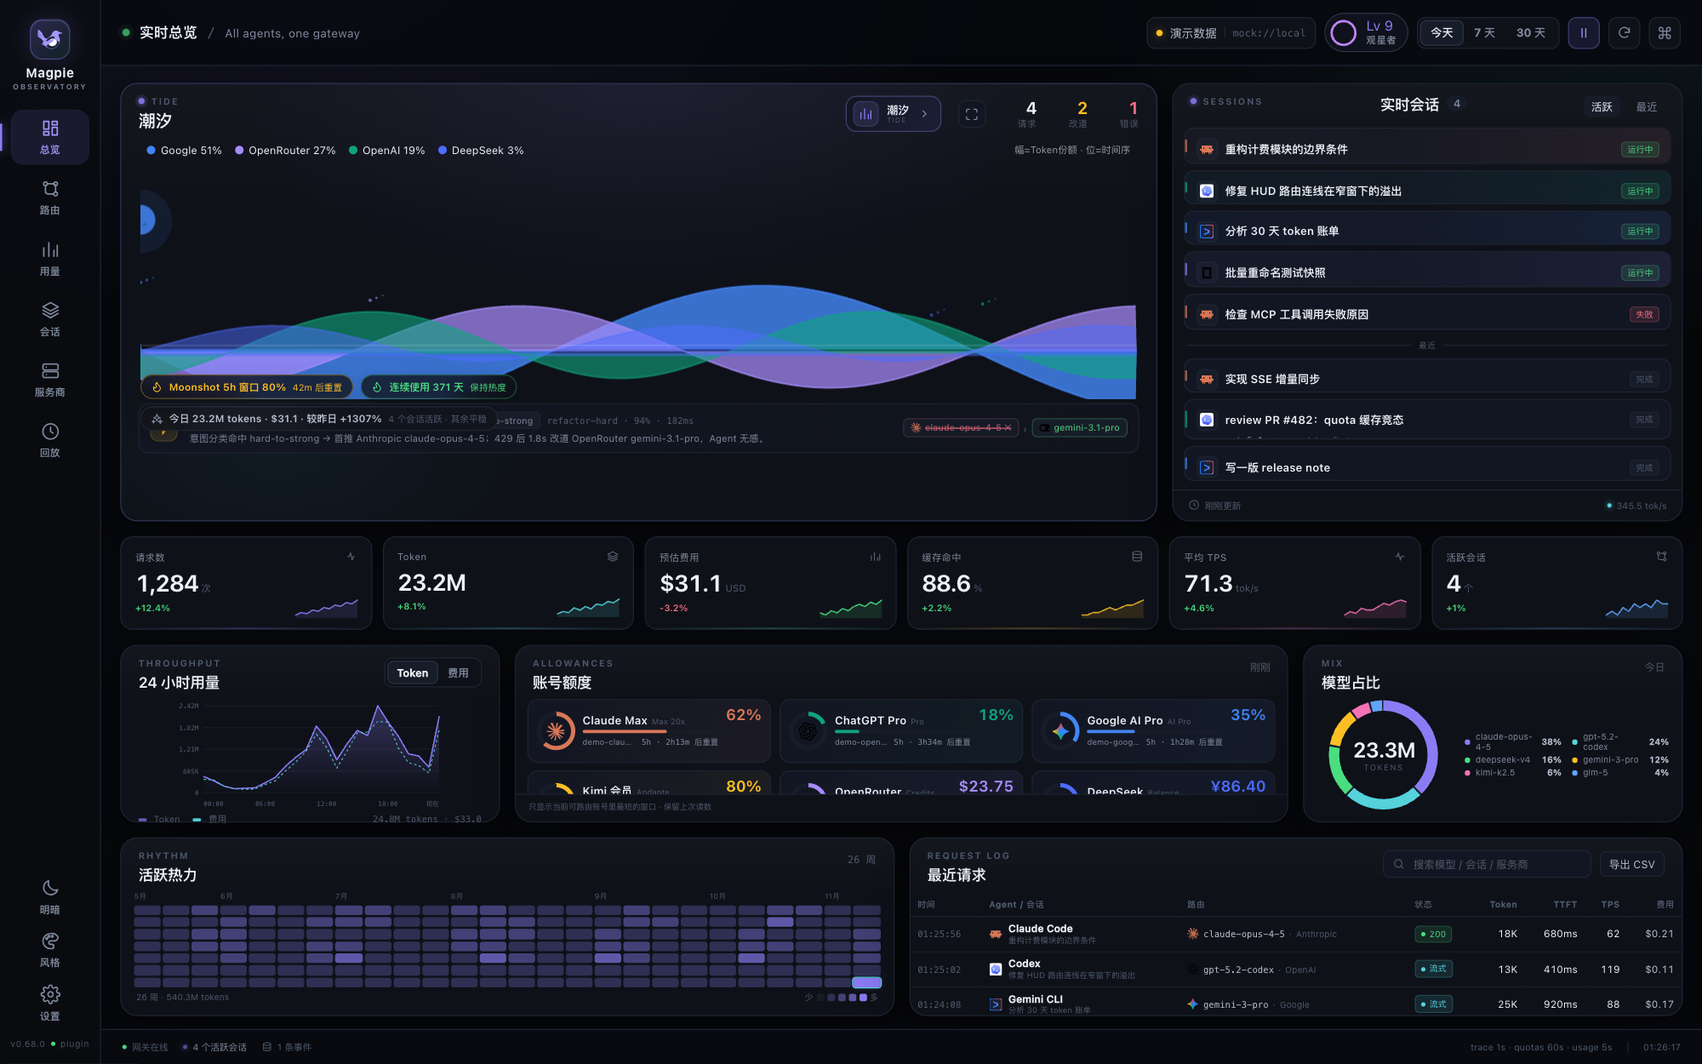
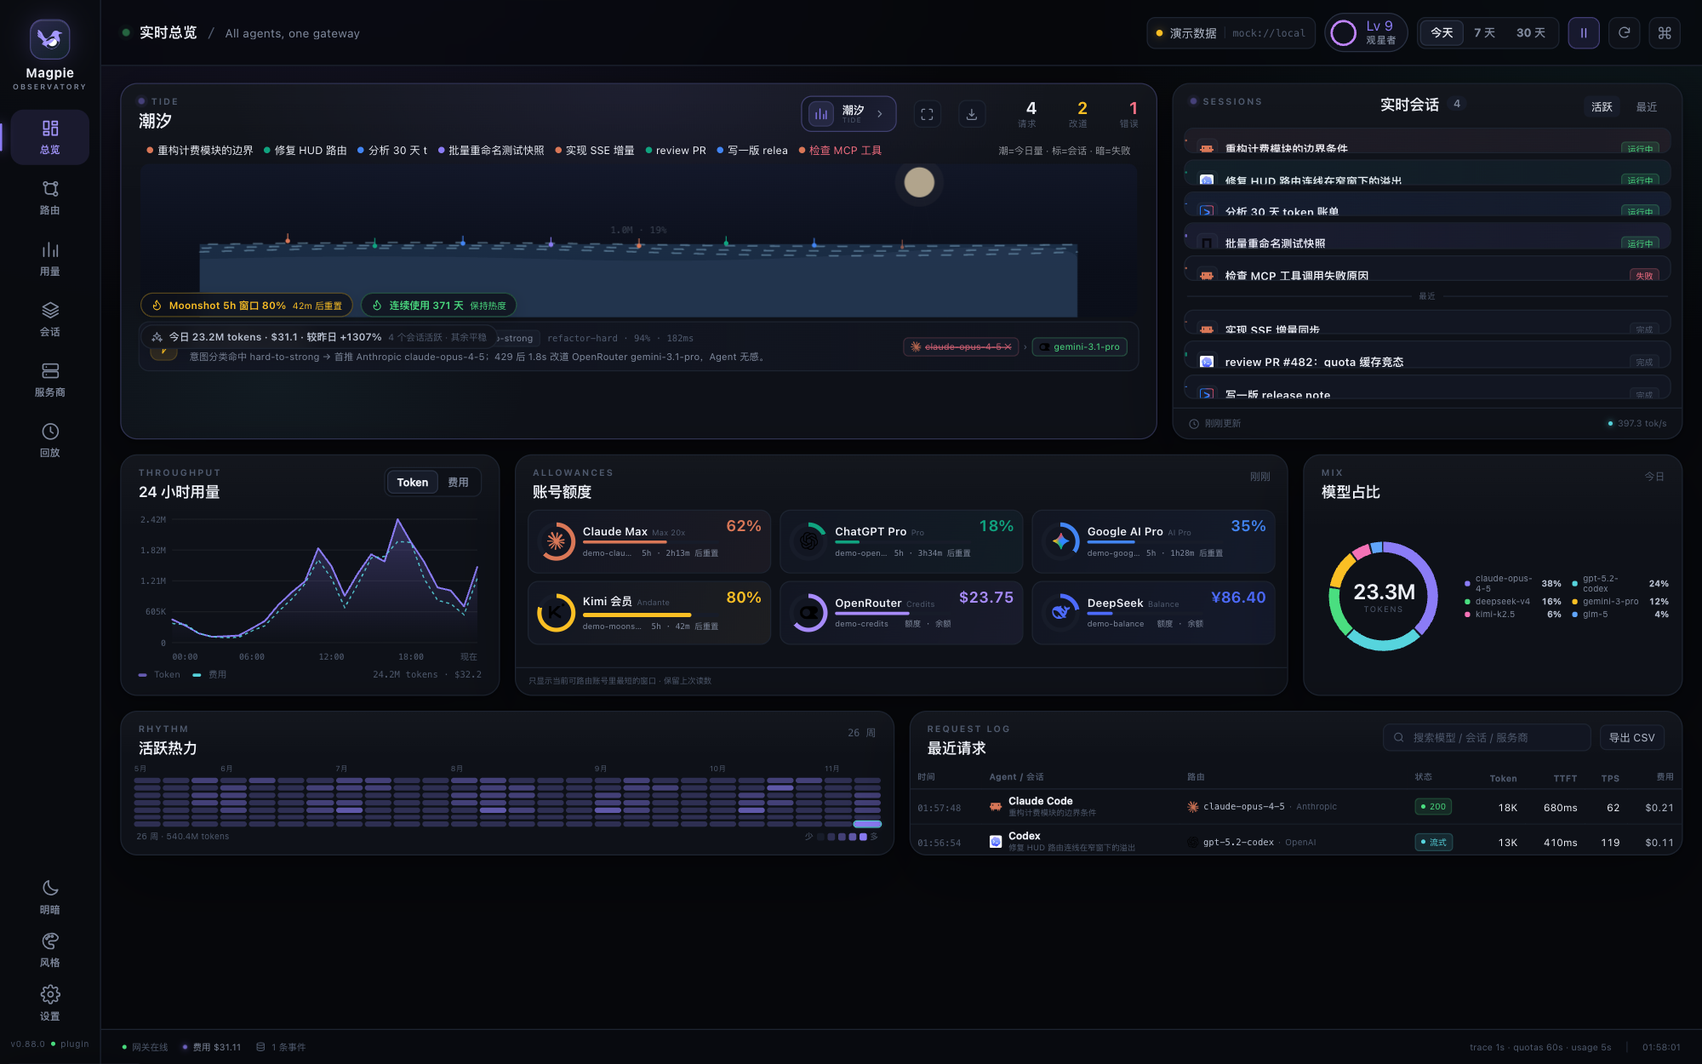
feat: 50th view tide — quota as a rising sea (v0.88.0)
- tide.js/css: today's tokens as a rising tide — level = soft-cap share,
  buoys = sessions, dim = failed; moon + waves
- READMEx2 + docs/mode-tide.png + 50 VIEWS

diff --git a/public/assets/views/tide.js b/public/assets/views/tide.js
@@ -1,84 +1,86 @@
-/* ----------------------------------------------------------------- tide
- * Tide view — provider throughput as rolling waves:
- *   each provider is a sine-wave band; amplitude = its token share,
- *   phase drifts over time. Waves lap onto a shore line; a moon pulls
- *   the biggest wave's crest.
+/* -------------------------------------------------------------------- tide
+ * Tide view — the day's quota as a rising tide against a coastline:
+ *   the sea level is today's total tokens as a share of a soft cap,
+ *   waves roll in (session rhythm), a moon pulls them. Failed requests
+ *   darken the water.
  * ----------------------------------------------------------------- */
 
 (() => {
   const VIEW = "tide";
   const esc = x => String(x ?? "").replace(/[<>&"]/g, c => ({ "<": "&lt;", ">": "&gt;", "&": "&amp;", '"': "&quot;" }[c]));
 
-  let seed = 17;
+  let seed = 97;
   const rnd = () => { seed = (seed * 16807) % 2147483647; return (seed - 1) / 2147483646; };
 
-  function wavePath(W, base, amp, freq, phase, dir) {
-    let d = `M0,${base}`;
-    for (let x = 0; x <= W; x += 8) {
-      const y = base + Math.sin((x / W) * freq * Math.PI * 2 + phase) * amp * dir;
-      d += ` L${x},${y.toFixed(1)}`;
-    }
-    return d;
-  }
-
   function render(host, ctx) {
-    const series = (ctx.data.series || []).slice(-24);
-    const sessions = ctx.data.sessions || [];
-    const meta = ctx.providerMeta || {}; const metaOf = k => (typeof meta === "function" ? meta(k) : (meta[k] || {}));
+    const sessions = (ctx.data.sessions || []).concat(ctx.data.recent || []).slice(0, 14);
+    const ameta = ctx.agentMeta || {};
+    const ametaOf = k => (typeof ameta === "function" ? ameta(k) : (ameta[k] || {}));
     const W = host.clientWidth || 800, H = host.clientHeight || 300;
-    const shore = H - 50;
+    const cx = W / 2, shore = H * 0.62;
 
-    // provider → tokens share from sessions
-    const provTok = {};
-    sessions.forEach(s => { provTok[s.provider] = (provTok[s.provider] || 0) + (s.tokens || 0); });
-    const total = Object.values(provTok).reduce((a, b) => a + b, 0) || 1;
-    const provs = Object.entries(provTok).sort((a, b) => b[1] - a[1]).slice(0, 6);
+    seed = 97;
+    const today = (ctx.data.today || []);
+    const totTok = today.reduce((s, t) => s + (t.tokens || 0), 0) || sessions.reduce((s, x) => s + (x.tokens || 0), 0) || 1;
+    const softCap = 5_000_000;
+    const level = Math.min(0.95, totTok / softCap);
+    const seaY = shore - level * (H - shore + 20);
+    const failed = sessions.filter(s => s.status === "error" || s.status === "failed").length;
+    const dim = failed > 0;
 
-    seed = 17;
-    let waves = "", crestX = 0, crestY = 0, crestCol = "#8b7cf6", crestShare = 0;
-    provs.forEach(([prov, tok], i) => {
-      const share = tok / total;
-      const col = metaOf(prov).color || "#8b7cf6";
-      const amp = 14 + share * 90;
-      const freq = 1.2 + i * 0.4;
-      const phase = i * 0.9;
-      const base = shore - i * 4;
-      // fill under wave
-      const path = wavePath(W, base, amp, freq, phase, 1);
-      const fill = `${path} L${W},${shore} L0,${shore} Z`;
-      waves += `<path class="tide-fill" d="${fill}" fill="${col}" opacity="${0.12 + share * 0.18}" style="animation-delay:${i * 90}ms"/>`;
-      waves += `<path class="tide-line" d="${path}" fill="none" stroke="${col}" stroke-width="1.6" opacity=".85" style="animation-delay:${i * 90}ms"/>`;
-      // foam dots on crest
-      const crestI = Math.floor(rnd() * W / 8) * 8;
-      const crestXl = crestI;
-      const crestYl = base - amp * 0.95;
-      for (let f = 0; f < 3; f++) {
-        waves += `<circle class="tide-foam" cx="${crestXl + f * 6}" cy="${crestYl - f * 3}" r="${1.5 - f * 0.4}" fill="${col}" opacity=".7" style="animation-delay:${i * 90 + f * 120}ms"/>`;
-      }
-      if (share > crestShare) { crestShare = share; crestX = crestXl; crestY = crestYl; crestCol = col; }
+    // moon
+    const moonY = H * 0.12;
+    const moon = `<circle class="td-moon" cx="${W * 0.82}" cy="${moonY}" r="16" fill="rgba(240,220,180,.9)"/>
+      <circle class="td-moon2" cx="${W * 0.82}" cy="${moonY}" r="26" fill="rgba(240,220,180,.06)"/>
+      <path class="td-beam" d="M${W * 0.82 - 4},${moonY + 14} L${W * 0.82 - 20},${H} M${W * 0.82 + 4},${moonY + 14} L${W * 0.82 + 30},${H}"
+        stroke="rgba(240,220,180,.08)" stroke-width="1"/>`;
+
+    // coastline silhouette
+    const coast = `<path class="td-coast" d="M0,${shore} Q${W * 0.2},${shore - 6} ${W * 0.4},${shore} T${W * 0.8},${shore - 8} T${W},${shore} V${H} H0 Z"
+      fill="rgba(30,36,52,.6)"/>`;
+
+    // sea
+    const sea = `<rect class="td-sea ${dim ? "dim" : ""}" x="0" y="${seaY.toFixed(0)}" width="${W}" height="${(H - seaY).toFixed(0)}"
+      fill="rgba(60,110,160,.55)"/>`;
+
+    // wave crests
+    let waves = "";
+    for (let i = 0; i < 3; i++) {
+      const wy = seaY + i * 4;
+      const amp2 = 4 + i * 2;
+      waves += `<path class="td-wave" d="M0,${wy.toFixed(0)} Q${W * 0.25},${wy - amp2} ${W * 0.5},${wy} T${W},${wy}"
+          fill="none" stroke="rgba(150,200,230,.5)" stroke-width="1.4" stroke-linecap="round"
+          style="animation-delay:${i * 500}ms"/>`;
+    }
+
+    // session buoys
+    let buoys = "";
+    sessions.slice(0, 8).forEach((s, i) => {
+      const col = ametaOf(s.agent).color || "#8b7cf6";
+      const x = W * 0.1 + (i / 8) * W * 0.8;
+      const y = seaY - 2 + rnd() * 6;
+      const failed2 = s.status === "error" || s.status === "failed";
+      buoys += `<g class="td-buoy ${failed2 ? "sink" : ""}" style="animation-delay:${i * 150}ms">
+          <line x1="${x.toFixed(0)}" y1="${y.toFixed(0)}" x2="${x.toFixed(0)}" y2="${y - 8}" stroke="${col}" stroke-width="1"/>
+          <circle cx="${x.toFixed(0)}" cy="${y.toFixed(0)}" r="${failed2 ? 1.8 : 2.4}" fill="${col}"/>
+          <title>${esc(s.title)} · ${s.agent}</title>
+        </g>`;
     });
 
-    // moon over the biggest wave
-    const moonY = crestY - 60;
-    const moon = `
-      <circle class="tide-moon-glow" cx="${crestX}" cy="${moonY}" r="30" fill="${crestCol}" opacity=".08"/>
-      <circle class="tide-moon" cx="${crestX}" cy="${moonY}" r="14" fill="${crestCol}" opacity=".85"/>
-      <circle cx="${crestX - 4}" cy="${moonY - 3}" r="2.5" fill="rgba(0,0,0,.2)"/>
-      <circle cx="${crestX + 4}" cy="${moonY + 3}" r="1.8" fill="rgba(0,0,0,.15)"/>`;
-
-    // legend
-    const legend = provs.map(([prov, tok]) => {
-      const col = metaOf(prov).color || "#8b7cf6";
-      const pct = Math.round((tok / total) * 100);
-      return `<span class="tl-item"><i style="background:${col}"></i>${esc(metaOf(prov).name || prov)} ${pct}%</span>`;
+    const legend = sessions.map(s => {
+      const col = ametaOf(s.agent).color || "#8b7cf6";
+      const failed2 = s.status === "error" || s.status === "failed";
+      return `<span class="tl-item ${failed2 ? "bad" : ""}"><i style="background:${col}"></i>${esc((s.title || "").slice(0, 9))}</span>`;
     }).join("");
 
     host.innerHTML = `
-      <div class="tide-wrap">
-        <div class="tide-legend">${legend}<span class="tl-tip">幅=Token份额 · 位=时间序</span></div>
-        <svg class="tide-svg" viewBox="0 0 ${W} ${H}" preserveAspectRatio="xMidYMax slice">
-          ${moon}${waves}
-          <line x1="0" y1="${shore}" x2="${W}" y2="${shore}" stroke="rgba(255,255,255,.18)" stroke-width="1"/>
+      <div class="td-wrap">
+        <div class="td-legend">${legend}<span class="tl-tip">潮=今日量 · 标=会话 · 暗=失败</span></div>
+        <svg class="td-svg" viewBox="0 0 ${W} ${H}" preserveAspectRatio="xMidYMid meet">
+          ${moon}${coast}${sea}${waves}${buoys}
+          <text x="${W * 0.5}" y="${seaY - 12}" class="td-label" text-anchor="middle" fill="rgba(200,220,240,.5)">
+            ${(totTok / 1e6).toFixed(1)}M · ${(level * 100).toFixed(0)}%
+          </text>
         </svg>
       </div>`;
   }

diff --git a/public/assets/views/tide.css b/public/assets/views/tide.css
@@ -1,28 +1,38 @@
 /* tide.css — 潮汐 */
 
-.tide-wrap { height: 100%; display: flex; flex-direction: column; min-height: 0; }
-.tide-legend {
+.td-wrap { height: 100%; display: flex; flex-direction: column; min-height: 0; }
+.td-legend {
   padding: 0 6px 6px; font-size: 10px; color: var(--dim);
-  display: flex; gap: 12px; flex: 0 0 auto; flex-wrap: wrap; align-items: center;
+  display: flex; gap: 10px; flex: 0 0 auto; flex-wrap: wrap; align-items: center;
 }
-.tide-legend .tl-item { display: flex; align-items: center; gap: 5px; }
-.tide-legend .tl-item i { width: 8px; height: 8px; border-radius: 50%; }
-.tide-legend .tl-tip { margin-left: auto; font-size: 9px; opacity: .6; }
+.td-legend .tl-item { display: flex; align-items: center; gap: 4px; }
+.td-legend .tl-item i { width: 6px; height: 6px; border-radius: 50%; }
+.td-legend .tl-item.bad { color: #f26d7f; }
+.td-legend .tl-tip { margin-left: auto; font-size: 9px; opacity: .6; }
 
-.tide-svg { flex: 1; width: 100%; min-height: 0; }
+.td-svg { flex: 1; width: 100%; min-height: 0; background: linear-gradient(180deg, rgba(18,24,44,.7), rgba(10,14,26,.8) 70%); border-radius: 8px; }
 
-.tide-fill, .tide-line { animation: tide-in .9s ease-out both; }
-.tide-foam { animation: tide-foam 2s ease-in-out infinite; }
-.tide-moon { animation: tide-moon 3.5s ease-in-out infinite; transform-origin: center; transform-box: fill-box; }
-.tide-moon-glow { animation: tide-glow 3.5s ease-in-out infinite; }
+.td-moon { animation: td-glow 6s ease-in-out infinite; }
+.td-moon2 { animation: td-glow 6s ease-in-out infinite .5s; }
+.td-beam { animation: td-beam 8s ease-in-out infinite; }
+.td-coast { animation: none; }
+.td-sea { animation: td-sway 9s ease-in-out infinite; }
+.td-sea.dim { fill: rgba(60,110,160,.3); }
+.td-wave { animation: td-roll 4s ease-in-out infinite; stroke-dasharray: 10 14; }
+.td-buoy { animation: td-bob 3s ease-in-out infinite; transform-origin: center; }
+.td-buoy.sink { animation: td-sink 4s ease-in-out infinite; }
+.td-label { font-size: 10px; font-family: var(--mono, monospace); animation: td-fade 8s ease-in-out infinite; }
 
-@keyframes tide-in { from { transform: translateY(20px); opacity: 0; } to { transform: translateY(0); opacity: 1; } }
-@keyframes tide-foam { 0%, 100% { transform: translateY(0); opacity: .5; } 50% { transform: translateY(-4px); opacity: .9; } }
-@keyframes tide-moon { 0%, 100% { transform: translateY(0); } 50% { transform: translateY(-6px); } }
-@keyframes tide-glow { 0%, 100% { opacity: .08; } 50% { opacity: .18; } }
+@keyframes td-glow { 0%, 100% { opacity: .7; } 50% { opacity: 1; } }
+@keyframes td-beam { 0%, 100% { opacity: .05; } 50% { opacity: .15; } }
+@keyframes td-sway { 0%, 100% { transform: translateY(0); } 50% { transform: translateY(-3px); } }
+@keyframes td-roll { 0% { stroke-dashoffset: 0; } 100% { stroke-dashoffset: -60; } }
+@keyframes td-bob { 0%, 100% { transform: translateY(0); } 50% { transform: translateY(-2px); } }
+@keyframes td-sink { 0%, 100% { transform: translateY(0); opacity: .6; } 50% { transform: translateY(3px); opacity: .3; } }
+@keyframes td-fade { 0%, 100% { opacity: .4; } 50% { opacity: .7; } }
 
-.tide-empty { height: 100%; display: flex; align-items: center; justify-content: center; color: var(--dim); font-size: 13px; }
+.td-empty { height: 100%; display: flex; align-items: center; justify-content: center; color: var(--dim); font-size: 13px; }
 
 @media (prefers-reduced-motion: reduce) {
-  .tide-fill, .tide-line, .tide-foam, .tide-moon, .tide-moon-glow { animation-duration: .001ms !important; }
+  .td-moon, .td-moon2, .td-beam, .td-sea, .td-wave, .td-buoy, .td-label { animation-duration: .001ms !important; }
 }

diff --git a/public/index.html b/public/index.html
@@ -51,6 +51,7 @@
 <link rel="stylesheet" href="assets/views/galaxy.css">
 <link rel="stylesheet" href="assets/views/dna.css">
 <link rel="stylesheet" href="assets/views/nebula.css">
+<link rel="stylesheet" href="assets/views/tide.css">
 <body>
 <svg class="sprite" aria-hidden="true">
   <symbol id="i-overview" viewBox="0 0 24 24"><path d="M4 13h6V4H4v9Zm0 7h6v-4H4v4Zm10 0h6v-9h-6v9Zm0-16v4h6V4h-6Z"/></symbol>
@@ -109,7 +110,7 @@
       <button class="nav-item" id="theme-toggle" title="明暗模式"><svg class="icon-moon"><use href="#i-moon"/></svg><svg class="icon-sun"><use href="#i-sun"/></svg><span>明暗</span></button>
       <button class="nav-item" id="style-toggle" title="界面风格"><svg><use href="#i-palette"/></svg><span>风格</span></button>
       <button class="nav-item" id="settings-toggle" title="布局与动效"><svg><use href="#i-settings"/></svg><span>设置</span></button>
-      <div class="rail-version">v0.87.0 <i></i> plugin</div>
+      <div class="rail-version">v0.88.0 <i></i> plugin</div>
     </div>
   </aside>
 
@@ -231,6 +232,7 @@
           <div class="stage-view" id="view-galaxy" hidden></div>
           <div class="stage-view" id="view-dna" hidden></div>
           <div class="stage-view" id="view-nebula" hidden></div>
+          <div class="stage-view" id="view-tide" hidden></div>
         </div>
         <div class="decision-strip">
           <div class="decision-icon"><svg><use href="#i-zap"/></svg></div>
@@ -456,7 +458,7 @@
   </div>
 </div>
 <div class="view-menu" id="view-menu" hidden role="dialog" aria-label="切换视图">
-  <div class="vm-head"><div><b>切换视图</b><small>49 VIEWS</small></div><button class="vm-close" id="view-menu-close" type="button" aria-label="关闭"><svg><use href="#i-x"/></svg></button></div>
+  <div class="vm-head"><div><b>切换视图</b><small>50 VIEWS</small></div><button class="vm-close" id="view-menu-close" type="button" aria-label="关闭"><svg><use href="#i-x"/></svg></button></div>
   <label class="vm-search"><svg><use href="#i-search"/></svg><input id="view-search" type="search" placeholder="搜索视图 / 分组 / 关键词" autocomplete="off"></label>
   <div class="vm-groups" id="vm-groups"></div>
   <div class="vm-none" id="vm-none" hidden>没有匹配的视图</div>
@@ -549,6 +551,7 @@
 <script src="assets/views/galaxy.js"></script>
 <script src="assets/views/dna.js"></script>
 <script src="assets/views/nebula.js"></script>
+<script src="assets/views/tide.js"></script>
 <script src="assets/app-plus.js"></script>
 <script src="assets/app.js"></script>
 </body>

diff --git a/public/assets/app.js b/public/assets/app.js
@@ -131,6 +131,7 @@
     { id: "galaxy", title: "星系", eyebrow: "GALAXY", group: "趣味", icon: "i-magpie", hint: "星=会话 双臂" },
     { id: "dna", title: "DNA", eyebrow: "DNA", group: "趣味", icon: "i-magpie", hint: "对=会话 宽=Token" },
     { id: "nebula", title: "星云", eyebrow: "NEBULA", group: "趣味", icon: "i-magpie", hint: "云=会话 大=Token" },
+    { id: "tide", title: "潮汐", eyebrow: "TIDE", group: "趣味", icon: "i-magpie", hint: "潮=今日量" },
     { id: "play", title: "开局", eyebrow: "PLAY · EVERY CALL IS A BEAT", group: "趣味", icon: "i-zap", hint: "转盘 + 判定 + 连击" }
   ];
 
@@ -2568,7 +2569,7 @@
 
   /* ------------------------------------------------------------------ init --- */
   function init() {
-    try { console.info("%c Magpie Observatory v0.87.0 · twenty-five views · 7 styles · layout settings", "color:#8b7cf6;font-weight:bold"); } catch (_) {}
+    try { console.info("%c Magpie Observatory v0.88.0 · twenty-five views · 7 styles · layout settings", "color:#8b7cf6;font-weight:bold"); } catch (_) {}
     (window.Obs && window.Obs.hooks.init || []).forEach(fn => { try { fn(apiObj); } catch (_) {} });
     try {
       const hostTheme = new URLSearchParams(location.search).get("hostTheme");

diff --git a/README.zh-CN.md b/README.zh-CN.md
@@ -14,10 +14,10 @@ Magpie 已经知道每个请求走的是哪个 provider、账号和模型。Obse
 
 - **实时路由**：Agent → Magpie → Provider/Account；实心喜鹊带请求飞出去，
   镜像描边喜鹊带回答飞回来；失败改道保留“已改道”标记。
-- **四十九种视图**：`路由` / `雷达` / `织机` / `节奏` / `年轮` / `额度` /
+- **五十种视图**：`路由` / `雷达` / `织机` / `节奏` / `年轮` / `额度` /
   `瀑布` / `蜂群` / `成本` / `流向` / `漏斗` / `热力` / `星图` / `预算` /
   `结构` / `和弦` / `网络` / `河流` / `连击` / `工厂` / `蜂巢` / `夜航` /
-  `博弈` / `燃烧` / `K线` / `仪表盘` / `绽放` / `培养皿` / `极光` / `星座` / `潮汐` / `棱镜` / `玻璃缸` / `回声` / `马赛克` / `折纸` / `萤火虫` / `曼陀罗` / `拼布` / `漩涡` / `万花筒` / `彗星轨道` / `雨幕` / `气泡` / `频谱` / `波浪线` / `星系` / `DNA` / `星云`——一种看路由，四十八种看同一份数据。
+  `博弈` / `燃烧` / `K线` / `仪表盘` / `绽放` / `培养皿` / `极光` / `星座` / `潮汐` / `棱镜` / `玻璃缸` / `回声` / `马赛克` / `折纸` / `萤火虫` / `曼陀罗` / `拼布` / `漩涡` / `万花筒` / `彗星轨道` / `雨幕` / `气泡` / `频谱` / `波浪线` / `星系` / `DNA` / `星云` / `潮汐`——一种看路由，四十九种看同一份数据。
 - **七套风格**：`控制室` / `像素` / `纸感` / `霓虹` / `终端` / `蓝图` / `拼贴`，
   每套都有明暗两版；明暗和风格互相独立。
 - **布局设置**：自动 / 一屏 / 舒展；密度 紧凑 / 标准 / 宽松；动效 全部 / 轻柔 / 关闭。
@@ -115,7 +115,7 @@ MAGPIE_URL=http://127.0.0.1:3425 MAGPIE_KEY=... node preview.mjs
 
 预览只用于开发；插件内部使用同一个服务。
 
-## 四十九种视图
+## 五十种视图
 
 | 路由 · 双向喜鹊 | 雷达 · Provider 环与额度 |
 | --- | --- |
@@ -211,9 +211,9 @@ MAGPIE_URL=http://127.0.0.1:3425 MAGPIE_KEY=... node preview.mjs
 | --- | --- |
 | ![galaxy](docs/mode-galaxy.png) | ![dna](docs/mode-dna.png) |
 
-| 星云 · 会话是彩色云团 |
-| --- |
-| ![nebula](docs/mode-nebula.png) |
+| 星云 · 会话是彩色云团 | 潮汐 · 配额是涨落的海 |
+| --- | --- |
+| ![nebula](docs/mode-nebula.png) | ![tide](docs/mode-tide.png) |
 
 - **路由**：默认视图。喜鹊沿整条 `Agent → Magpie → Provider` 路径飞行，
   失败尝试仍然留在画面上。
@@ -312,12 +312,14 @@ MAGPIE_URL=http://127.0.0.1:3425 MAGPIE_KEY=... node preview.mjs
   色 = Agent、断 = 失败。
 - **星云**：会话是一团彩色星云——大 = Token、色 = Agent、
   淡 = 失败；丝状光和尘埃填底。
+- **潮汐**：今日 Token 是涨落的海面——位 = 软顶占比、
+  标 = 会话、暗 = 失败；月亮牵引。
 
 ## 切换视图
 
 英雄卡头部不再是平铺按钮，而是一个视图选择器。按 **V**（或点击）打开，
 输入名称 / 英文 eyebrow / 分组即可过滤，Enter 切换；也可以点 **随机一个**。
-49 个视图分为 `实时` / `用量` / `结构` / `趣味` 四组，英雄卡强调色跟着分组变化。
+50 个视图分为 `实时` / `用量` / `结构` / `趣味` 四组，英雄卡强调色跟着分组变化。
 **G** 开启/停止巡游（间隔在设置里可选 5 / 10 / 30 秒），**R** 随机视图，
 **F** 收藏当前视图（收藏会置顶并跨刷新保留），**?** 打开快捷键表，**Esc** 关闭。
 按 **O** 进入**影院模式**：英雄视图占满整个窗口，只留漂浮 HUD（视图名、

diff --git a/README.md b/README.md
@@ -16,7 +16,7 @@ Observatory turns that stream into something you can *watch*:
 - **Live routing** — Agent → Magpie → Provider/Account, with a filled magpie
   carrying the request out and a mirrored outlined magpie bringing the answer
   back. Failed attempts stay visible as “rerouted”.
-- **Forty-nine views** — one for routing, forty-eight ways to look at the
+- **Fifty views** — one for routing, forty-nine ways to look at the
   same data: charts, games, ambient fields.
 - **Seven style packs** — `Control`, `Pixel`, `Paper`, `Neon`, `Terminal`,
   `Blueprint`, `Zine`; each with a light and dark variant. Light/dark and
@@ -128,7 +128,7 @@ MAGPIE_URL=http://127.0.0.1:3425 MAGPIE_KEY=... node preview.mjs
 
 The preview is for development only; the plugin uses the same service internally.
 
-## The forty-nine views
+## The fifty views
 
 | Route · two-way magpies | Radar · provider ring and quotas |
 | --- | --- |
@@ -224,9 +224,9 @@ The preview is for development only; the plugin uses the same service internally
 | --- | --- |
 | ![galaxy](docs/mode-galaxy.png) | ![dna](docs/mode-dna.png) |
 
-| Nebula · sessions as a colour cloud |
-| --- |
-| ![nebula](docs/mode-nebula.png) |
+| Nebula · sessions as a colour cloud | Tide · quota as a rising sea |
+| --- | --- |
+| ![nebula](docs/mode-nebula.png) | ![tide](docs/mode-tide.png) |
 
 - **Route**: the default. Magpies fly the whole `Agent → Magpie → Provider`
   path; failures remain visible.
@@ -332,6 +332,8 @@ The preview is for development only; the plugin uses the same service internally
   width = tokens, colour = agent, broken = failed.
 - **Nebula**: sessions as a soft colour cloud — size = tokens,
   hue = agent, dim = failed; filaments and dust fill the field.
+- **Tide**: today's tokens as a rising tide — level = share of a soft
+  cap, buoys = sessions, dim = failed; a moon pulls the sea.
 
 - **Burn**: every account window as a pace bar — fill shows used %, tick
   marks flat pace, a dashed notch projects end-of-window; click a row for the
@@ -341,7 +343,7 @@ The preview is for development only; the plugin uses the same service internally
 
 The hero header has a view picker instead of a wall of tabs. Press **V** (or
 click it), type to filter by name / eyebrow / group, press Enter to switch, or
-hit **随机一个** for a random view. The 49 views are grouped into
+hit **随机一个** for a random view. The 50 views are grouped into
 `实时` / `用量` / `结构` / `趣味`, and the hero accent follows the group.
 **G** starts or stops an auto tour (5 / 10 / 30-second interval in settings),
 **R** picks a random view, **F** stars the current view (favourites pin to the

diff --git a/docs/roadmap-2026q4.md b/docs/roadmap-2026q4.md
@@ -1011,3 +1011,12 @@ decision/palette）+ 复制/跳转/过滤/记忆/导出 全覆盖。审计完毕
 - **VIEW_META 趣味组** + `view-nebula` + `49 VIEWS`；
   README×2 + `docs/mode-nebula.png`。
 
+---
+
+## Phase 86 — 第 50 个视图 `tide`（2026-11-15 · v0.88.0）
+
+- **`tide.js/css`**：潮汐——海面=今日 Token 占软顶、
+  浮标=会话、暗=失败、月亮牵引；`td-sway`/`td-roll`/`td-bob`/`td-sink`。
+- **VIEW_META 趣味组** + `view-tide` + `50 VIEWS`；
+  README×2 + `docs/mode-tide.png`。
+
